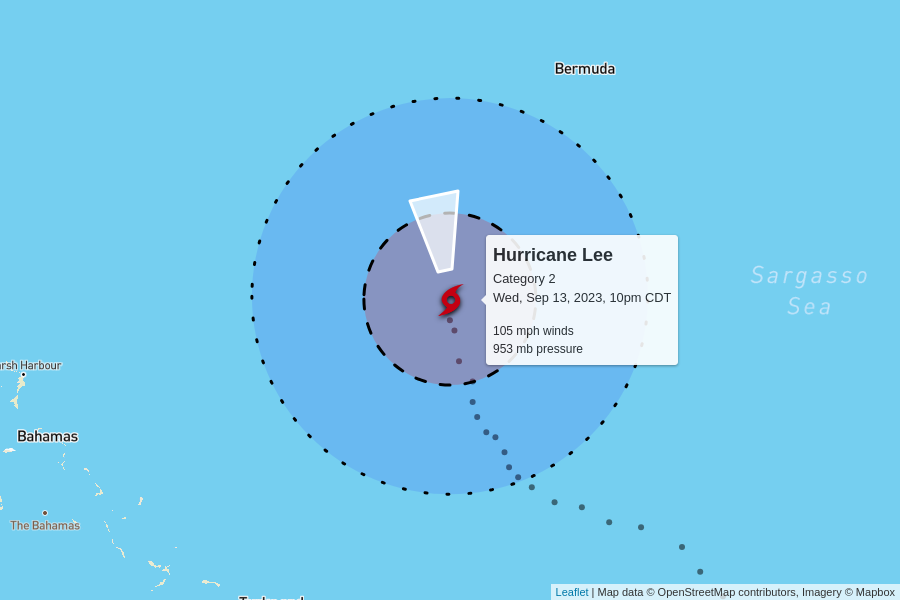
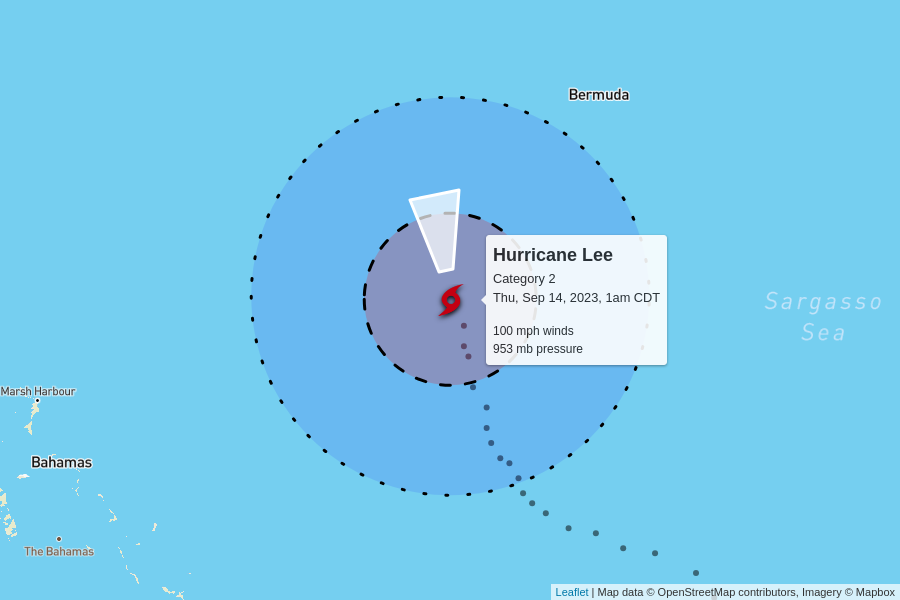
automatic update

diff --git a/docs/index.html b/docs/index.html
@@ -101,6 +101,50 @@
 
     <table>
       <tr>
+        <td colspan="6" class="storm category-2" >
+          <h2>
+            Hurricane Lee - Category 2
+            <p class="updated">last updated <span data-time>2023-09-14T06:00:00.000Z</span></p>
+          </h2>
+        </td>
+      </tr>
+      
+      <tr>
+        <th class="spacer"></th>
+        <th>wind speed</th>
+        <th>central pressure</th>
+        <th>movement</th>
+        <th>data (CSV)</th>
+        <th>National Hurricane Center</th>
+      </tr>
+      <tr>
+        <td class="spacer"></td>
+        <td>100 mph<br>-5 mph since last update</td>
+        <td>953 mb<br>0 mb since last update</td>
+        <td>
+          9 mph to the north
+          <br/>
+          <span style="display: inline-block; font-size: 1.5em; transform: rotate(350deg);">↑</span>
+        </td>
+        <td><a href="https://raw.githubusercontent.com/mgwalker/atlantic-hurricanes/main/data/csv/AL132023.csv">AL132023.csv</a></td>
+        <td><a href="https://www.nhc.noaa.gov/archive/2023/LEE.shtml?">NHC advisories</a></td>
+      </tr>
+      <tr id="storm_AL132023" >
+        <td class="spacer">
+        <td colspan="5">
+          <figure>
+            <img src="AL132023.png">
+            <figcaption>
+              Map data &copy; <a href="https://www.openstreetmap.org/copyright">OpenStreetMap</a> contributors,
+              Imagery &copy; <a href="https://www.mapbox.com/">Mapbox</a> |
+              <a href="https://www.mapbox.com/map-feedback/" target="_blank">Improve this map</a>
+            </figcaption>
+          </figure>
+        </td>
+      </tr>
+      
+
+      <tr>
         <td colspan="6" class="storm category-1" >
           <h2>
             Hurricane Margot - Category 1
@@ -134,50 +178,6 @@
         <td colspan="5">
           <figure>
             <img src="AL142023.png">
-            <figcaption>
-              Map data &copy; <a href="https://www.openstreetmap.org/copyright">OpenStreetMap</a> contributors,
-              Imagery &copy; <a href="https://www.mapbox.com/">Mapbox</a> |
-              <a href="https://www.mapbox.com/map-feedback/" target="_blank">Improve this map</a>
-            </figcaption>
-          </figure>
-        </td>
-      </tr>
-      
-
-      <tr>
-        <td colspan="6" class="storm category-2" >
-          <h2>
-            Hurricane Lee - Category 2
-            <p class="updated">last updated <span data-time>2023-09-14T03:00:00.000Z</span></p>
-          </h2>
-        </td>
-      </tr>
-      
-      <tr>
-        <th class="spacer"></th>
-        <th>wind speed</th>
-        <th>central pressure</th>
-        <th>movement</th>
-        <th>data (CSV)</th>
-        <th>National Hurricane Center</th>
-      </tr>
-      <tr>
-        <td class="spacer"></td>
-        <td>105 mph<br>0 mph since last update</td>
-        <td>953 mb<br>+2 mb since last update</td>
-        <td>
-          9 mph to the north
-          <br/>
-          <span style="display: inline-block; font-size: 1.5em; transform: rotate(350deg);">↑</span>
-        </td>
-        <td><a href="https://raw.githubusercontent.com/mgwalker/atlantic-hurricanes/main/data/csv/AL132023.csv">AL132023.csv</a></td>
-        <td><a href="https://www.nhc.noaa.gov/archive/2023/LEE.shtml?">NHC advisories</a></td>
-      </tr>
-      <tr id="storm_AL132023" >
-        <td class="spacer">
-        <td colspan="5">
-          <figure>
-            <img src="AL132023.png">
             <figcaption>
               Map data &copy; <a href="https://www.openstreetmap.org/copyright">OpenStreetMap</a> contributors,
               Imagery &copy; <a href="https://www.mapbox.com/">Mapbox</a> |
